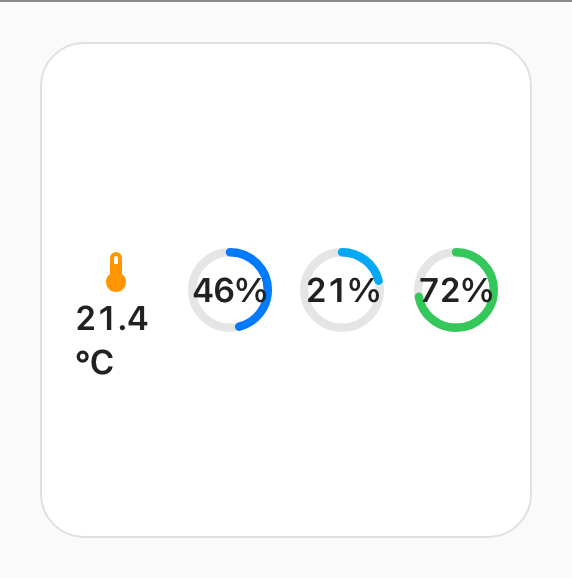
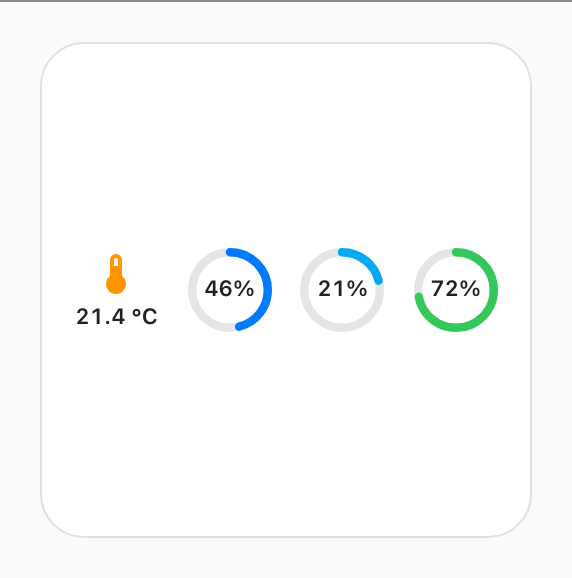
fix: default footprint below its own floor was silently erasing entities
getGridOptions() only ever raised min_rows/min_columns over core/size.ts's
flat rows:4 default, never the default itself, so a card whose floor
exceeded 4 rows (two rectangular entities, five inline rows) rendered on
first frame at a size below the floor it had just computed. ha-card
clips overflow instead of spilling it, so the entities that did not fit
were not drawn cramped, they were simply absent with nothing on screen
to say why.

Raise the numeric default to the floor, per field, without turning a
literal 'full'/'auto' grid option into NaN. Also fixes two related
findings from the same review pass, both about the same ring:

- --cw-comp-ring was set from packFor's design-unit value without ever
  multiplying by --cw-scale, so the ring stopped scaling with the rest
  of the card's type. Scaled once at the template, matching the battery
  card's --cw-ring-size.
- the circular reading's font-size was fixed regardless of the ring's
  actual diameter, so a small ring's value could touch the track or
  wrap onto a second line and spill out of the ring entirely (see the
  regenerated docs/images/complication-small.png). Sized off
  --cw-comp-ring via clamp() instead, and given white-space: nowrap.

Pins the "default footprint at least the floor" invariant for every
style and a spread of entity counts in layout.test.ts. Softens
layout.ts's and complication-widget-rules.md §5's "overflow is
unreachable" claim to name the one remaining gap honestly: a size saved
[…]

diff --git a/src/cards/complication/complication-card.ts b/src/cards/complication/complication-card.ts
@@ -69,7 +69,13 @@ class CupertinoComplicationCard extends CupertinoCard<ComplicationCardConfig> {
       /* Every px below is a design unit multiplied by --cw-scale, and layout.ts holds the
          same numbers unscaled: it divides the measured box by the factor instead, so the
          two sides of the arithmetic never restate each other. The lengths each price a
-         twin in layout.ts are called out below, next to that twin's name there. */
+         twin in layout.ts are called out below, next to that twin's name there. The one
+         exception is --cw-comp-ring: packFor answers it in the same design units as
+         everything else, but the template sets it as a custom property CSS consumes
+         directly, so it is scaled once, there, rather than restated as calc(var(--cw-
+         comp-ring) * var(--cw-scale)) at every rule below that reads it -- the battery
+         card's --cw-ring-size crosses the same boundary the same way, with the same
+         comment, at battery-card.ts. */
       ha-card {
         height: 100%;
         box-sizing: border-box;
@@ -184,11 +190,35 @@ class CupertinoComplicationCard extends CupertinoCard<ComplicationCardConfig> {
       }
 
       .reading {
-        font: 600 calc(17px * var(--cw-scale)) / calc(22px * var(--cw-scale)) var(--cw-font);
+        font-family: var(--cw-font);
+        font-weight: 600;
         font-variant-numeric: tabular-nums;
         letter-spacing: -0.01em;
         color: var(--cw-label);
         z-index: 1;
+      }
+
+      /* The ring's own reading, sized off the ring it actually landed in rather than off
+         --cw-scale alone. A fixed 17px * scale read fine at packFor's default RING_MAX
+         (96 design units) but not at RING_MIN (40): a 46% would touch the track on both
+         sides, and a longer value like 21.4°C would wrap onto a second line the .ring box
+         has no height budgeted for, spilling out of it and breaking the row beside it --
+         both visible in docs/images/complication-small.png before this rule existed.
+         white-space: nowrap is what .cell.inline .reading already carries for the same
+         reason (see its own comment below): with the default 'normal' the reading wraps
+         at its internal space rather than growing past its box, and a wrapped ring
+         reading has nowhere to grow into. The clamp: a floor that stays legible at
+         RING_MIN, a preferred size proportional to the ring's own diameter rather than a
+         flat multiple of scale, and a ceiling at the 17px this rule always drew, so a
+         ring at or above RING_MAX looks exactly as it did before this change. */
+      .ring .reading {
+        font-size: clamp(
+          calc(11px * var(--cw-scale)),
+          calc(var(--cw-comp-ring) * 0.2),
+          calc(17px * var(--cw-scale))
+        );
+        line-height: 1.15;
+        white-space: nowrap;
       }
 
       /* var(--cw-text-caption-2), not a --cw-comp-label of its own: its 11px/13px is the
@@ -489,18 +519,52 @@ class CupertinoComplicationCard extends CupertinoCard<ComplicationCardConfig> {
   }
 
   /**
-   * The defaults `core/size.ts` gives every card, with this card's own floors over the
-   * top.
+   * The defaults `core/size.ts` gives every card, raised to this card's own floors where
+   * the defaults would sit below them.
    *
-   * The floors are the overflow design; see `floorsFor`. Recomputed on every call rather
-   * than cached, because they depend on the config and a stale floor is a card that can
-   * be dragged smaller than it fits.
+   * `super.getGridOptions()` returns a flat `rows: 4` — it has no idea this card exists,
+   * let alone how many entities it holds — so spreading the floors on top of it (the
+   * original shape here) only ever raised `min_rows`/`min_columns`, never the `rows`/
+   * `columns` HA actually renders at before anyone touches the Layout tab. A three-entity
+   * `rectangular` card floors at `min_rows: 6` but was still handed a default `rows: 4`:
+   * below its own floor, and silently below it, because `ha-card` clips overflow
+   * (`theme/base-styles.ts`) rather than spilling it — the third entity was not drawn
+   * smaller or truncated, it was simply gone. Raising the default to the floor (never
+   * lowering it, in case a future default grows past what this card needs) is what
+   * closes that gap; the floors are the overflow design, see `floorsFor`, and a default
+   * that starts under its own floor defeats it before the user ever drags anything.
+   *
+   * Recomputed on every call rather than cached, because both halves depend on the
+   * config and a stale value is a card that can render, or be dragged, smaller than it
+   * fits.
    */
   public override getGridOptions(): LovelaceGridOptions {
     const style = this._config?.style ?? DEFAULT_STYLE
     const count = entityConfigs(this._config?.entities).length
+    const floors = floorsFor(style, count)
+    const base = super.getGridOptions()
 
-    return { ...super.getGridOptions(), ...floorsFor(style, count) }
+    return {
+      ...base,
+      ...floors,
+      // `columns`/`rows` are `number | 'full'` and `number | 'auto'` (`core/types/ha.ts`)
+      // because Home Assistant's own grid accepts those literals as "as wide/tall as the
+      // grid allows" — and `super.getGridOptions()` could in principle return one, even
+      // though `core/size.ts`'s `gridOptions()` happens to return plain numbers today.
+      // `Number('full')` is `NaN`, so a blind `Math.max` would silently turn a deliberate
+      // literal into a broken grid option instead of leaving it alone; a literal is also
+      // already at least as generous as any floor this card could ask for, so there is
+      // nothing to raise. Only the number case is coerced; either literal, or an absent
+      // default, passes straight to the floor itself.
+      columns:
+        typeof base.columns === 'number'
+          ? Math.max(base.columns, floors.min_columns)
+          : (base.columns ?? floors.min_columns),
+      rows:
+        typeof base.rows === 'number'
+          ? Math.max(base.rows, floors.min_rows)
+          : (base.rows ?? floors.min_rows),
+    }
   }
 
   /**
@@ -587,6 +651,13 @@ class CupertinoComplicationCard extends CupertinoCard<ComplicationCardConfig> {
    * which reads worse than no gauge at all. So the icon takes the ring's place instead:
    * the same style showing what the data supports, rather than a sixth style for entities
    * with no range.
+   *
+   * The `aria-label` here, and on the other two faces below, spells "unavailable" out
+   * rather than reading `item.value` straight: `model.ts` already turns an unreadable
+   * entity's value into an em dash for the dashed, dimmed cell decision 4 draws visually,
+   * but an em dash read aloud by a screen reader is silence, not a dash — "Lounge
+   * Humidity, —" tells nobody anything went wrong. `battery-card.ts`'s cells make the
+   * same call the same way, off the same `unknown`/`unavailable` flag.
    */
   private _renderCircular(item: Complication, labels: boolean): TemplateResult {
     const gauge = item.range !== null
@@ -597,7 +668,7 @@ class CupertinoComplicationCard extends CupertinoCard<ComplicationCardConfig> {
         style=${`--cw-comp-tint:${tintVar(item.tint)}`}
         role="button"
         tabindex="0"
-        aria-label=${`${item.name}, ${item.value}`}
+        aria-label=${`${item.name}: ${item.unavailable ? 'unavailable' : item.value}`}
         @click=${() => this._openMoreInfo(item.id)}
         @keydown=${this._activate(item.id)}
       >
@@ -638,7 +709,7 @@ class CupertinoComplicationCard extends CupertinoCard<ComplicationCardConfig> {
         style=${`--cw-comp-tint:${tintVar(item.tint)}; --cw-comp-on-tint:${onTintVar(item.tint)}`}
         role="button"
         tabindex="0"
-        aria-label=${`${item.name}, ${item.value}`}
+        aria-label=${`${item.name}: ${item.unavailable ? 'unavailable' : item.value}`}
         @click=${() => this._openMoreInfo(item.id)}
         @keydown=${this._activate(item.id)}
       >
@@ -668,7 +739,7 @@ class CupertinoComplicationCard extends CupertinoCard<ComplicationCardConfig> {
         style=${`--cw-comp-tint:${tintVar(item.tint)}`}
         role="button"
         tabindex="0"
-        aria-label=${`${item.name}, ${item.value}`}
+        aria-label=${`${item.name}: ${item.unavailable ? 'unavailable' : item.value}`}
         @click=${() => this._openMoreInfo(item.id)}
         @keydown=${this._activate(item.id)}
       >
@@ -733,11 +804,17 @@ class CupertinoComplicationCard extends CupertinoCard<ComplicationCardConfig> {
       this.scaleFactor,
     )
 
+    // pack.ring arrives in design units, like every other number packFor returns; scaled
+    // here, once, into the one custom property this stylesheet reads pre-multiplied. See
+    // the styles' own top-of-file comment for why that is the one length that crosses the
+    // scale boundary raw instead of restating "* var(--cw-scale)" at each rule below.
+    const ring = `calc(${pack.ring}px * var(--cw-scale))`
+
     return html`
       <ha-card class=${style}>
         <div
           class="grid ${style}"
-          style=${`--cw-comp-columns:${pack.columns}; --cw-comp-ring:${pack.ring}px`}
+          style=${`--cw-comp-columns:${pack.columns}; --cw-comp-ring:${ring}`}
         >
           ${items.map(item => this._renderCell(style, item, pack.labels))}
         </div>

diff --git a/src/cards/complication/layout.test.ts b/src/cards/complication/layout.test.ts
@@ -1,6 +1,8 @@
 import { describe, expect, it } from 'vitest'
 
+import { gridOptions } from '../../core/size'
 import { floorsFor, packFor, type Box } from './layout'
+import { COMPLICATION_STYLES } from './style'
 
 /** The two footprints the library designs for, in a section of the usual ~500px. */
 const SMALL: Box = { width: 246, height: 248 }
@@ -122,5 +124,58 @@ describe('floorsFor', () => {
    */
   it('keeps asking for more rows past the old hardcoded ceiling', () => {
     expect(floorsFor('rectangular', 7)).toEqual({ min_columns: 6, min_rows: 14 })
+  })
+})
+
+/**
+ * Pins the invariant `getGridOptions()` relies on `floorsFor` and `core/size.ts`'s
+ * `gridOptions()` to jointly satisfy: the *default* footprint a card renders at before
+ * anyone touches the Layout tab must never sit below its own floor.
+ *
+ * This was the whole of the Critical bug the final review caught. `gridOptions()`
+ * returns a flat `{ rows: 4, columns: 12 }` with no idea this card exists, and the
+ * original `getGridOptions()` only ever spread `floorsFor`'s `min_rows`/`min_columns` on
+ * top of it — raising the floor a card could be dragged to without ever raising the
+ * default it actually rendered at. A three-entity `rectangular` card floors at
+ * `min_rows: 6` but was handed a default `rows: 4`, below its own floor; `ha-card` clips
+ * overflow rather than spilling it (`theme/base-styles.ts`), so the third entity was not
+ * drawn cramped, it was simply never drawn.
+ *
+ * Deliberately not a test of `CupertinoComplicationCard.getGridOptions()` itself: that
+ * method lives on a custom element, and this suite runs in `environment: 'node'`
+ * (`vitest.config.ts`) with no DOM to construct one against. The merge below is the same
+ * one that method performs — raise a numeric default to the floor, leave a `'full'`/
+ * `'auto'` literal untouched — reimplemented here as a pure function of two things this
+ * file already has pure access to: `floorsFor` and the base defaults `core/size.ts`
+ * provides. If the two implementations ever drift, this test and `complication-card.ts`
+ * disagreeing is exactly the signal that should happen.
+ */
+describe('the default footprint never sits below its own floor', () => {
+  it('holds for every style and a spread of entity counts', () => {
+    const base = gridOptions()
+
+    for (const style of COMPLICATION_STYLES) {
+      for (const count of [0, 1, 2, 3, 5, 7, 12]) {
+        const floors = floorsFor(style, count)
+
+        // Same per-field merge as CupertinoComplicationCard.getGridOptions(): raise the
+        // numeric case, leave a 'full'/'auto' literal (or an absent default) alone. Kept
+        // as an explicit typeof check, not a shared generic helper, because columns and
+        // rows carry two different literal types (number | 'full' vs number | 'auto')
+        // and a helper typed to cover both stops TypeScript narrowing either one back
+        // down to number for the assertion below.
+        const columns =
+          typeof base.columns === 'number'
+            ? Math.max(base.columns, floors.min_columns)
+            : (base.columns ?? floors.min_columns)
+        const rows =
+          typeof base.rows === 'number'
+            ? Math.max(base.rows, floors.min_rows)
+            : (base.rows ?? floors.min_rows)
+
+        expect(typeof columns === 'string' || columns >= floors.min_columns).toBe(true)
+        expect(typeof rows === 'string' || rows >= floors.min_rows).toBe(true)
+      }
+    }
   })
 })

diff --git a/src/cards/complication/layout.ts b/src/cards/complication/layout.ts
@@ -14,12 +14,23 @@
  *
  * That is the whole of the overflow design, and it is worth saying plainly because it is
  * easy to miss reading the code alone: the Layout tab clamps its own sliders to whatever
- * `floorsFor` returns, so a card holding six rings simply cannot be dragged down to a box
- * that holds four. There is no `+2 more` indicator, no scroller, and no truncated state
- * anywhere in this card, and that is not an omission — it is what makes overflow
- * unreachable. A future change that adds one of those would be solving a problem this
- * design already closed off; the fix for a cramped card is `floorsFor` returning a bigger
- * number, not a face that hides what does not fit.
+ * `floorsFor` returns, so a card holding six rings cannot be *dragged* down to a box that
+ * holds four. There is no `+2 more` indicator, no scroller, and no truncated state anywhere
+ * in this card, and that is not an omission — for every footprint the Layout tab will let
+ * a user choose, it is what makes overflow unreachable. A future change that adds one of
+ * those would be solving a problem this design already closed off; the fix for a cramped
+ * card is `floorsFor` returning a bigger number, not a face that hides what does not fit.
+ *
+ * The qualifier matters, and it is a known, disclosed gap rather than a silent one:
+ * `config.grid_options` is spread *after* whatever `getGridOptions()` returns
+ * (`docs/ha-api-notes.md`), so a `rows` a user already had saved survives a later edit that
+ * raises `floorsFor`'s own floor — drag a two-entity `rectangular` card down to its floor,
+ * then add a third entity, and the saved `rows` is now below the new floor even though the
+ * Layout tab itself would refuse to offer that box today. That is a stale-config window,
+ * not a hole in the floors' arithmetic, and closing it would mean the layout yielding to an
+ * oversubscribed box — the opposite of the guarantee this module makes everywhere else, and
+ * a design change past the scope of a floor. See `docs/complication-widget-rules.md` §5 for
+ * where that trade is recorded for a reader who has not opened this file.
  *
  * The priority inside `packFor` is the battery card's, for the battery card's reason: the
  * count decides the grid, the grid decides the cell, the face fits the cell. Nothing here

diff --git a/src/theme/tokens.ts b/src/theme/tokens.ts
@@ -68,6 +68,12 @@ export const tokens = css`
        two colours rather than as a length. Half the fill's weight, in each theme. */
     --cw-track: rgba(0, 0, 0, 0.1);
 
+    /* cards/complication/tint.ts's NEEDS_DARK_ON_TINT hard-codes which four of these ten
+       fail a 3:1 white-text contrast check — worked out against the exact hex values
+       below, in both themes, not against the tint names in the abstract. Change a value
+       here (this block or the :host([dark]) one further down) and that judgement is
+       stale until someone re-checks it; the passing six could start failing, or one of
+       the four could clear the bar and no longer need the near-black override. */
     --cw-accent: var(--primary-color, #007aff);
     --cw-red: #ff3b30;
     --cw-orange: #ff9500;

diff --git a/docs/complication-widget-rules.md b/docs/complication-widget-rules.md
@@ -160,12 +160,24 @@ config on every call, so they can never go stale behind an entity list that just
 
 That is the whole of the overflow design, and the cost is worth stating in the same breath as
 the benefit: **the Layout tab clamps its own sliders to whatever `floorsFor` returns**, so a
-card holding six rings simply cannot be dragged down to a box that holds four. There is no
-`+2 more` indicator, no scroller, and no truncated state anywhere in this card, and that is not
-an omission, it is what makes overflow unreachable. The trade is a card that sometimes insists
-on being bigger than the user first reached for — which is the honest cost, how much room the
-content actually needs rather than a taste the card is imposing (`layout.test.ts`, "asks for
-more height as the entities pile up").
+card holding six rings cannot be _dragged_ down to a box that holds four. There is no
+`+2 more` indicator, no scroller, and no truncated state anywhere in this card — for every
+footprint the Layout tab will offer, that is not an omission, it is what makes overflow
+unreachable. The trade is a card that sometimes insists on being bigger than the user first
+reached for — which is the honest cost, how much room the content actually needs rather than a
+taste the card is imposing (`layout.test.ts`, "asks for more height as the entities pile up").
+
+**The unreachable claim has one known gap, and it is a stale-config window rather than a hole
+in the arithmetic.** `config.grid_options` is spread after whatever `getGridOptions()` returns
+(`docs/ha-api-notes.md`), so Home Assistant only re-clamps a saved size against a _new_ floor
+when the user next touches the Layout tab. Drag a two-entity `rectangular` card down to its
+floor, then add a third entity in YAML: the floor `floorsFor` now computes is taller, but the
+`rows` already saved on the card survives the edit until someone reopens the Layout tab and
+moves the slider, and the card clips in the meantime. Closing that gap would mean the layout
+itself yielding when its box is smaller than its content needs — the opposite of the guarantee
+this section spends its whole argument making, and a design change, not a bug fix. It is left
+open rather than papered over; see §9 below for it named as a possible future direction rather
+than a silent gap.
 
 ## 6. Why the card does not scroll, ever
 
@@ -240,3 +252,14 @@ Decided rather than known, each one edit away from being decided differently.
 - **A per-row style override.** Every entity in one card currently shares one `style`; mixing,
   say, one `rectangular-bleed` headline complication with a row of plain `circular` ones
   underneath would need a shape for that in the config, which today it does not have.
+- **A saved size can go stale under a rising floor.** §5's "overflow is unreachable" claim
+  holds only up to the Layout tab's own clamp, which fires when the tab is opened, not when
+  the config changes underneath a size the user already saved — see §5's own note. The
+  option not taken here is a layout that _yields_: if `packFor` were allowed to shrink a
+  block below `RECT_BLOCK`, or drop a caption, or otherwise fit itself into a box smaller
+  than `floorsFor` says it needs, a stale saved size would degrade gracefully instead of
+  clipping. That is a real fix, and deliberately not this branch's: it would mean the count
+  no longer unconditionally deciding the grid (the module comment on `packFor`'s own
+  priority order), which three already-reviewed tasks were built against holding. Worth
+  reopening only as its own considered change, not as a patch bolted onto the end of this
+  one.
